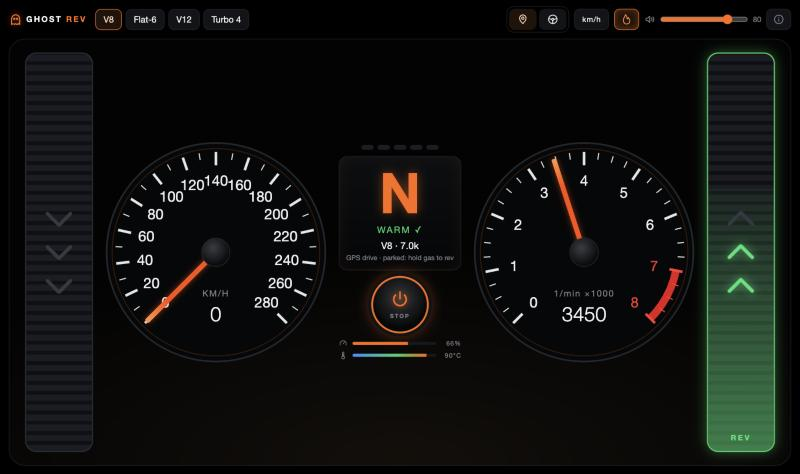
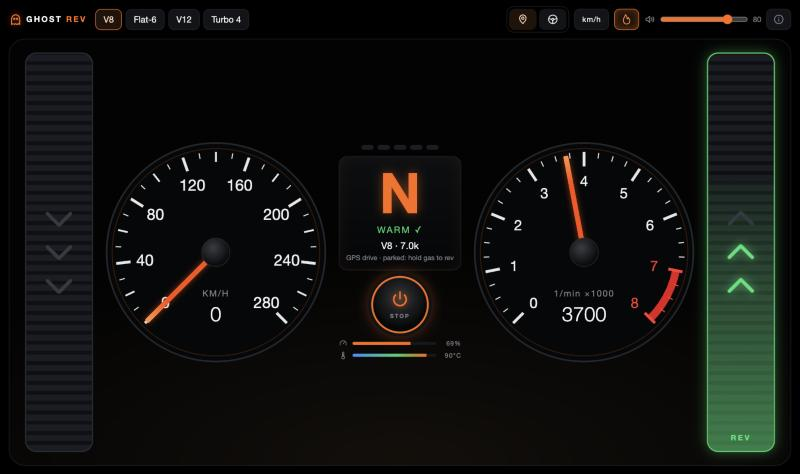
Cleaner speedometer: numbers every 40 km/h (20 mph), tiered ticks

diff --git a/index.html b/index.html
@@ -511,7 +511,8 @@ function frame() { draw(); if (running()) requestAnimationFrame(frame); }
 /* ---------- Cluster: SVG dial faces redrawn only when the scale changes; needles move by CSS transform ---------- */
 const A0 = -135, SWEEP = 270; // needle angle from 12 o'clock, clockwise
 let spdMax = 260, rpmMax = 8;
-function face(svg, max, major, minorPer, redFrom, warnFrom) {
+// labelEvery: only every n-th unit gets a number (and the longest tick); other majors get a mid tick
+function face(svg, max, major, minorPer, redFrom, warnFrom, labelEvery = major, fontSize = 13) {
   const pt = (a, r) => { const t = (a - 90) * Math.PI / 180; return [100 + r * Math.cos(t), 100 + r * Math.sin(t)]; };
   const arc = (from, to, col, w) => { const a1 = A0 + SWEEP * from / max, a2 = A0 + SWEEP * to / max, [x1,y1] = pt(a1, 84), [x2,y2] = pt(a2, 84);
     return `<path d="M${x1.toFixed(1)} ${y1.toFixed(1)} A84 84 0 ${a2 - a1 > 180 ? 1 : 0} 1 ${x2.toFixed(1)} ${y2.toFixed(1)}" fill="none" stroke="${col}" stroke-width="${w}"/>`; };
@@ -521,14 +522,17 @@ function face(svg, max, major, minorPer, redFrom, warnFrom) {
   if (redFrom != null) s += arc(redFrom, max, '#e3191b', 7);
   const steps = max / major * minorPer;
   for (let i = 0; i <= steps; i++) {
-    const a = A0 + SWEEP * i / steps, isMaj = i % minorPer === 0, [x1,y1] = pt(a, 90), [x2,y2] = pt(a, isMaj ? 78 : 84);
-    const red = redFrom != null && (i / steps) * max >= redFrom;
-    s += `<line x1="${x1.toFixed(1)}" y1="${y1.toFixed(1)}" x2="${x2.toFixed(1)}" y2="${y2.toFixed(1)}" stroke="${red ? '#ff3b30' : '#e8e8e8'}" stroke-width="${isMaj ? 2.4 : 1}"/>`;
-    if (isMaj) { const [tx,ty] = pt(a, 64); s += `<text x="${tx.toFixed(1)}" y="${(ty + 4.5).toFixed(1)}" fill="${red ? '#ff3b30' : '#f2f2f2'}" font-size="13" text-anchor="middle" font-family="Helvetica Neue,Arial">${i / minorPer * major}</text>`; }
+    const val = Math.round(i / steps * max * 1000) / 1000, a = A0 + SWEEP * i / steps;
+    const isMaj = i % minorPer === 0, isLab = isMaj && Math.abs(val / labelEvery - Math.round(val / labelEvery)) < 1e-6;
+    const [x1,y1] = pt(a, 90), [x2,y2] = pt(a, isLab ? 77 : isMaj ? 81 : 85);
+    const red = redFrom != null && val >= redFrom;
+    s += `<line x1="${x1.toFixed(1)}" y1="${y1.toFixed(1)}" x2="${x2.toFixed(1)}" y2="${y2.toFixed(1)}" stroke="${red ? '#ff3b30' : '#e8e8e8'}" stroke-width="${isLab ? 2.6 : isMaj ? 1.7 : 1}"/>`;
+    if (isLab) { const [tx,ty] = pt(a, 64); s += `<text x="${tx.toFixed(1)}" y="${(ty + fontSize * 0.36).toFixed(1)}" fill="${red ? '#ff3b30' : '#f2f2f2'}" font-size="${fontSize}" text-anchor="middle" font-family="Helvetica Neue,Arial">${val}</text>`; }
   }
   svg.innerHTML = s;
 }
-function drawSpeedFace() { spdMax = mph ? 180 : 280; face($('spdSvg'), spdMax, 20, 2); }
+// km/h: numbers every 40, ticks every 20 and 10 · mph: numbers every 20, ticks every 10 and 5
+function drawSpeedFace() { spdMax = mph ? 180 : 280; face($('spdSvg'), spdMax, mph ? 10 : 20, 2, null, null, mph ? 20 : 40, 14); }
 function drawRpmFace() {
   rpmMax = Math.ceil(car.red / 1000) + 1;
   const er = effRed();
